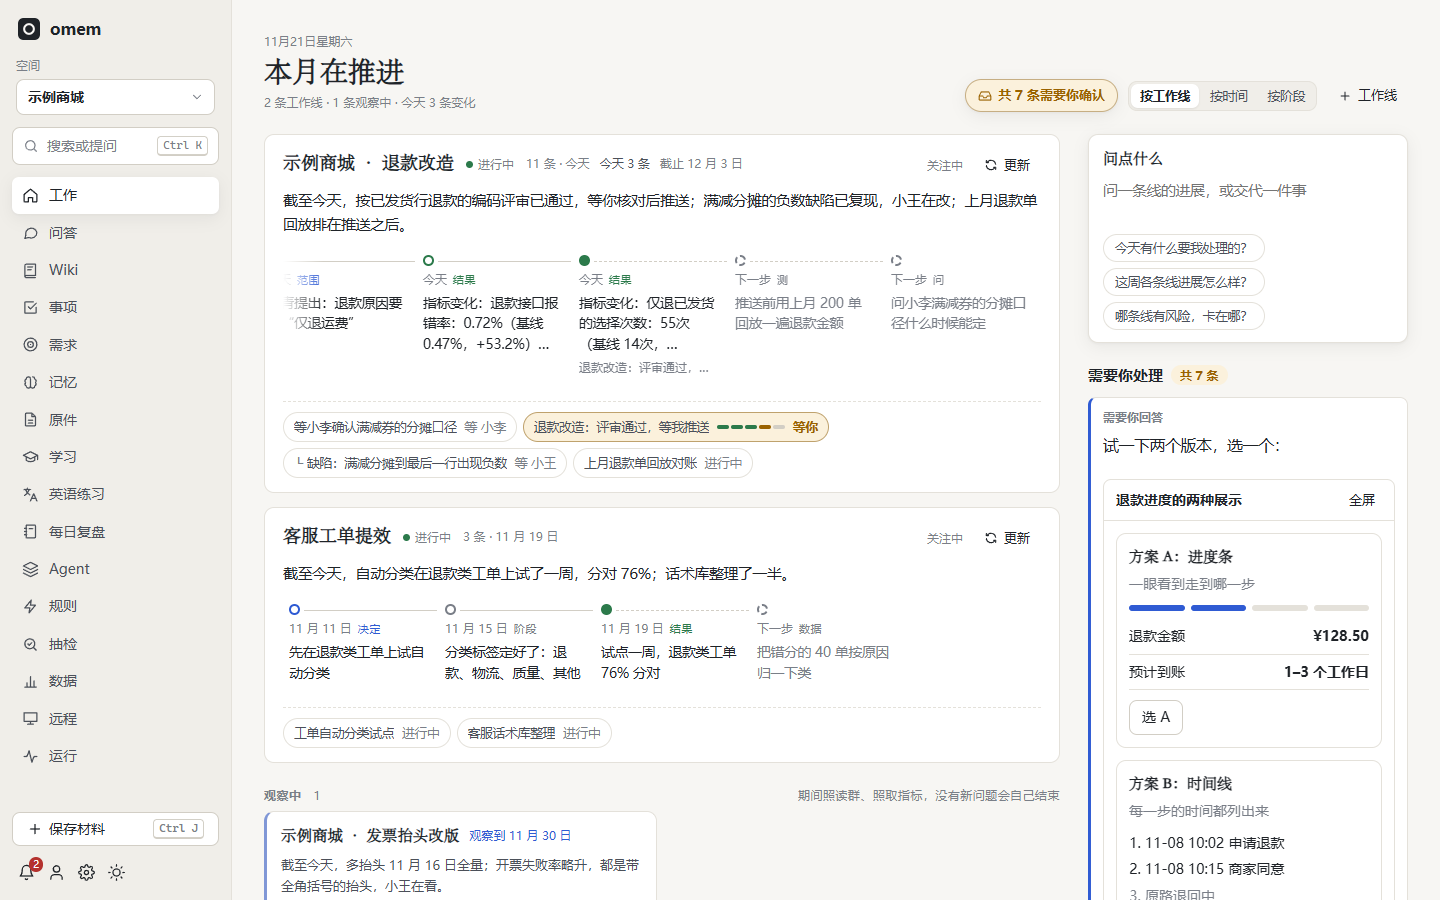
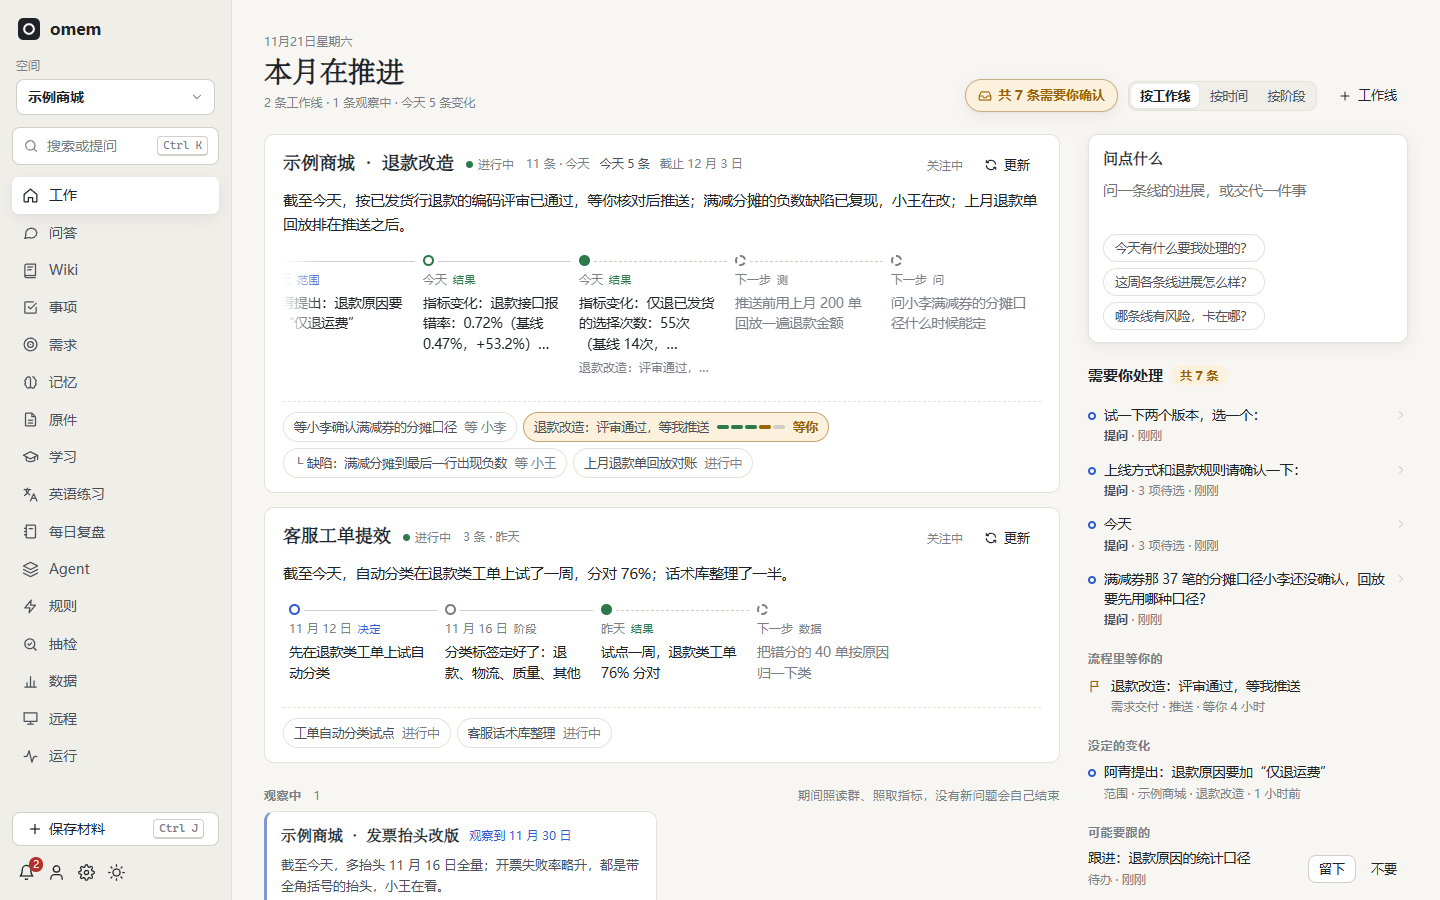
设置页重新分组的变更记录；待处理清单的标题把一两个字的小标题和下一行连起来读；重拍 work-overview

diff --git a/web/src/lib/plain.ts b/web/src/lib/plain.ts
@@ -12,7 +12,10 @@ export function unblock(md: string): string {
 
 /** The first line of a text as plain words (a list row's title): no marks, no reference ids. */
 export function plainLine(md: string, max = 120): string {
-  const line = unblock(md).split("\n").find((l) => l.trim()) ?? "";
+  const lines = unblock(md).split("\n").map((l) => l.trim()).filter(Boolean);
+  // A first line of a word or two is a heading over what follows ("今天"): it reads with the next line.
+  const head = lines[0] ?? "";
+  const line = head.length < 8 && lines[1] ? `${head.replace(/[：:]$/, "")}：${lines[1].replace(/^·\s*/, "")}` : head;
   const plain = line
     .replace(/!?\[([^\]]*)\]\([^)]*\)/g, "$1")
     .replace(/\[\[([^\]|]+?)(?:\|([^\]]+))?\]\]/g, (_, target: string, label?: string) => label ?? target.split("/").pop() ?? target)

diff --git a/test/web-plain.test.ts b/test/web-plain.test.ts
@@ -22,4 +22,9 @@ describe("short texts outside a page (web/src/lib/plain.ts)", () => {
     expect(plainLine("")).toBe("");
     expect(plainLine("\n\n- 只有一条")).toBe("只有一条");
   });
+
+  it("reads a one-word heading together with the line under it", () => {
+    expect(plainLine("## 今天\n\n- 退款改造等你核对后推送\n- 发票抬头在观察")).toBe("今天：退款改造等你核对后推送");
+    expect(plainLine("要点：\n先核对部署")).toBe("要点：先核对部署");
+  });
 });

diff --git a/.repo-review/wiki/reference/changes-since-2026-10-13.md b/.repo-review/wiki/reference/changes-since-2026-10-13.md
@@ -17,6 +17,14 @@ updated: 2026-11-21
 
 这个文件超过四百行左右时，把最早的一批整节移到归档里（没有合适的就新建一个按时间段命名的文件，并在上面加一行）。
 
+## 设置页按“本人在想什么事”重新分组（11-21）
+
+- `web/src/views/Settings.vue` 从两千多行拆成导航、目录、读写配置的公共部分（`views/settings/ctx.ts`）和每个标签一个懒加载文件（`views/settings/*.vue`）。分组：知识（空间 / 采集 / 检索与记忆 / 占用）、助手（通知与打扰 / 代你回复 / 推进工作 / 自检与复盘 / 定时任务）、AI（后端与模型 / 插件）、渠道与协作（渠道 / 成员 / 设备 / 分享）、系统（安全 / 外观与说明）。原“AI”标签的 21 张卡只留 6 张和后端有关的，其余按用途搬走；“连接”改叫“采集”，关注不在设置里管。
+- 一行一项：`components/SetCard.vue`、`SetRow.vue` 和 `styles.css` 末尾的 settings 段；长的路径和命令用 `components/MonoLine.vue`（一行省略、悬停看全、可复制）。定时任务是一张分组的表（`lib/cron-text.ts` 把 cron 写成“每天 02:50”），空间是列表加详情，分享和成员一行一条。
+- 任何一张卡可以用 `#/settings?card=<id>` 直达（`Settings.vue` 的 `CARDS` 表），旧的 `?tab=` 链接会落到搬家后的位置；`web/src` 和 `src/` 里给人看的“设置 → …”提示已改成新路径。
+- “提醒的效果”统计从设置里移出，成了 `components/NotifyEffect.vue`，放在数据页“omem 自己”的“提醒”一节。
+- 行为上的小变化：“跟随层数”和“每批标注数”填 0 以前会被悄悄换回默认值，现在保留 0。
+
 ## 整理第一批：下一阶段的方案、短文字的渲染、工作页右栏（11-21）
 
 - 新文档 `docs/v2/next.md`：现在的形状（入口、主动行为、等本人处理的东西各有多少路），三条主干（关联、变化、出口）和多 Agent、插件、沙箱、权限、提示词、界面各自的分期。之后的整理按它排。
